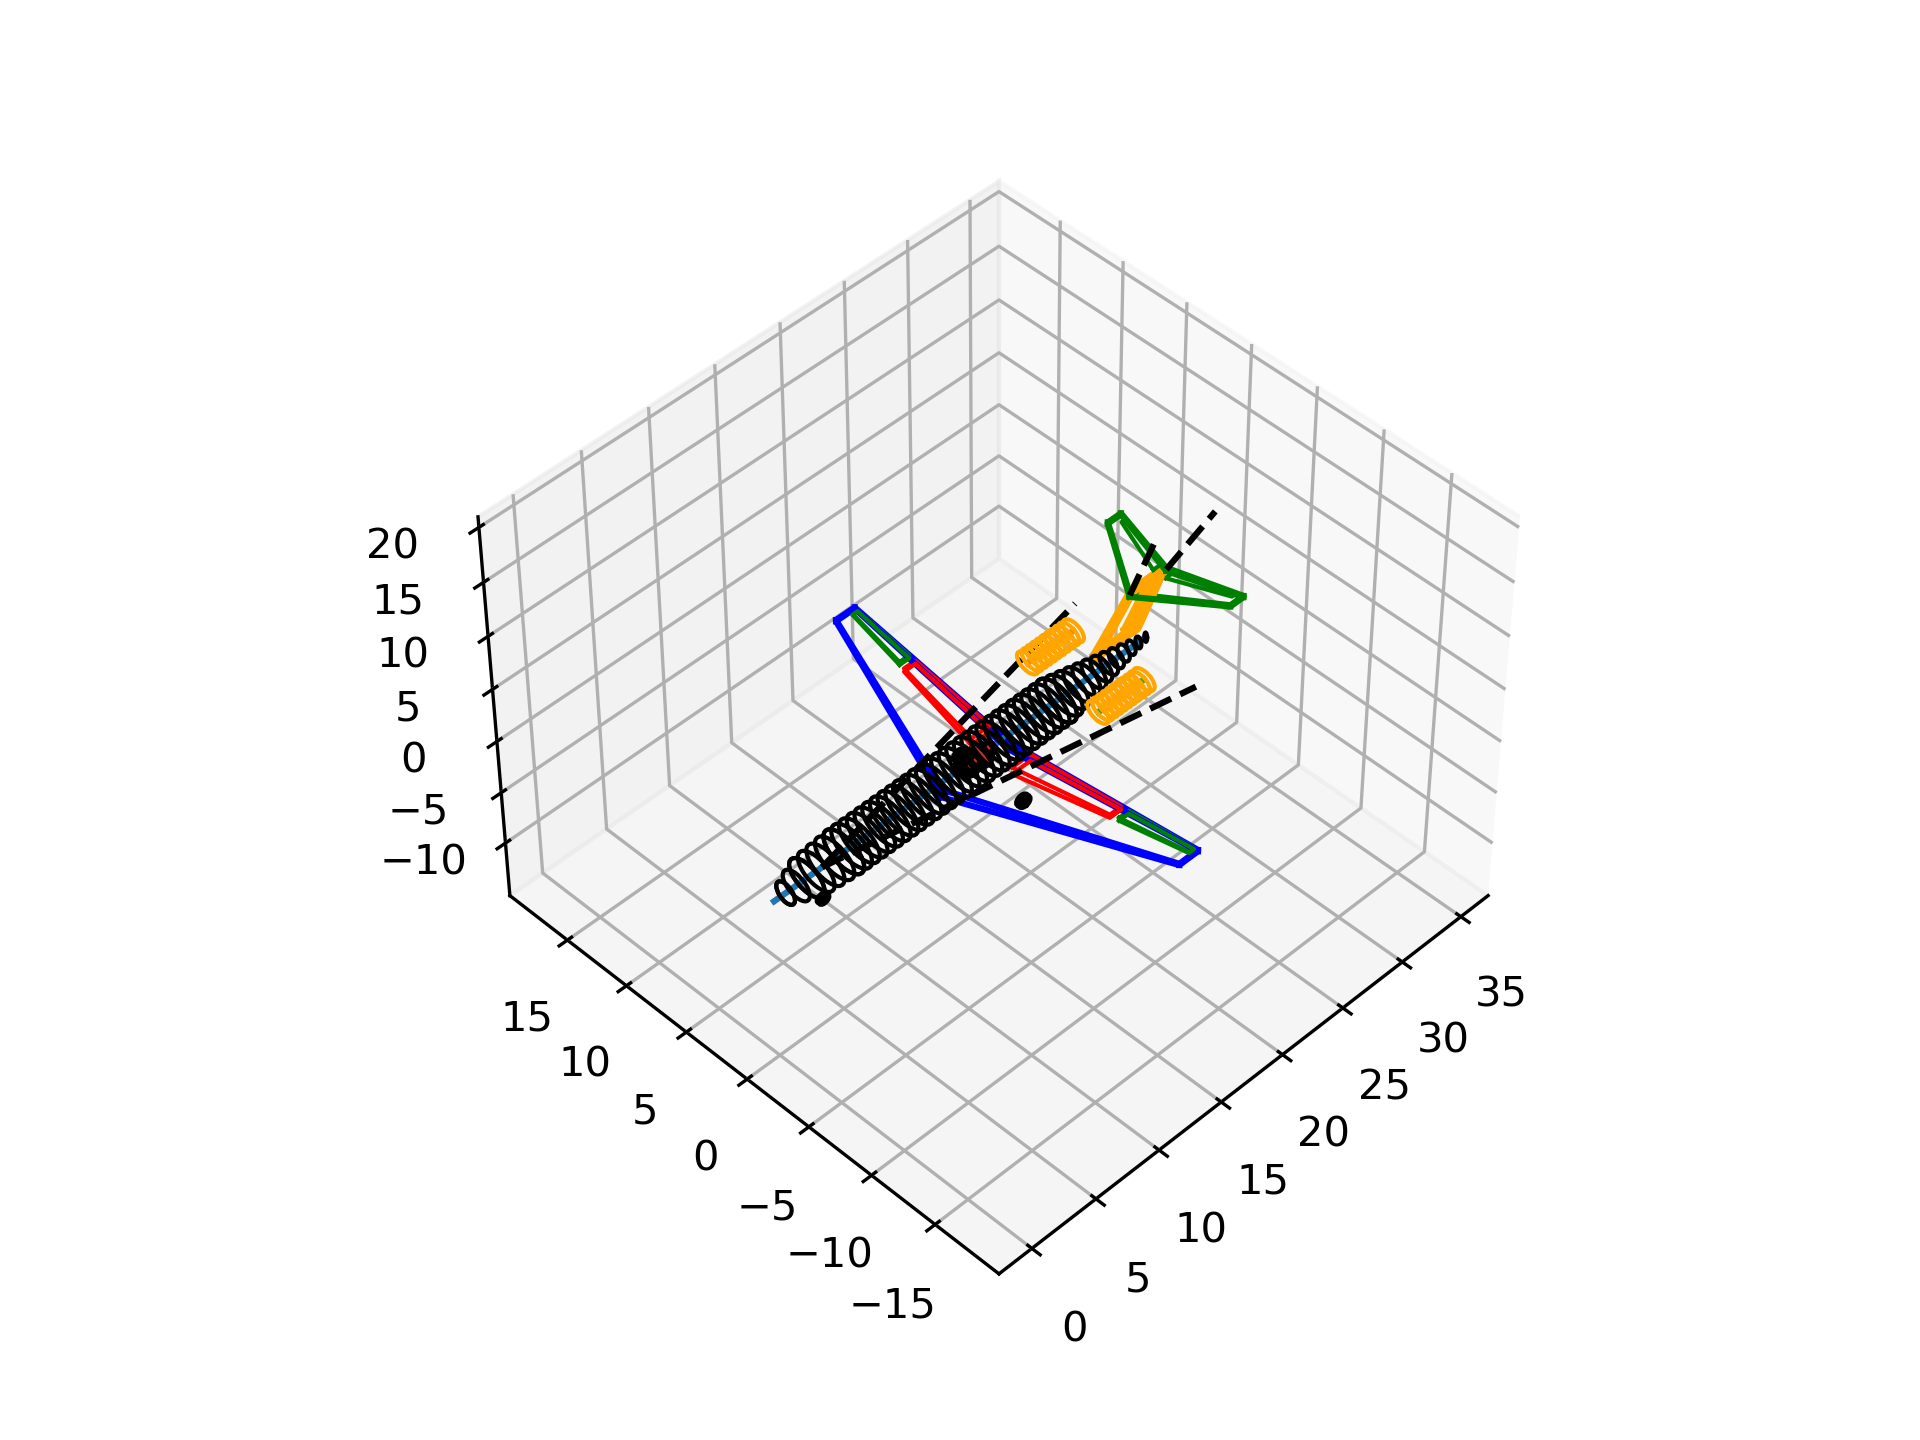
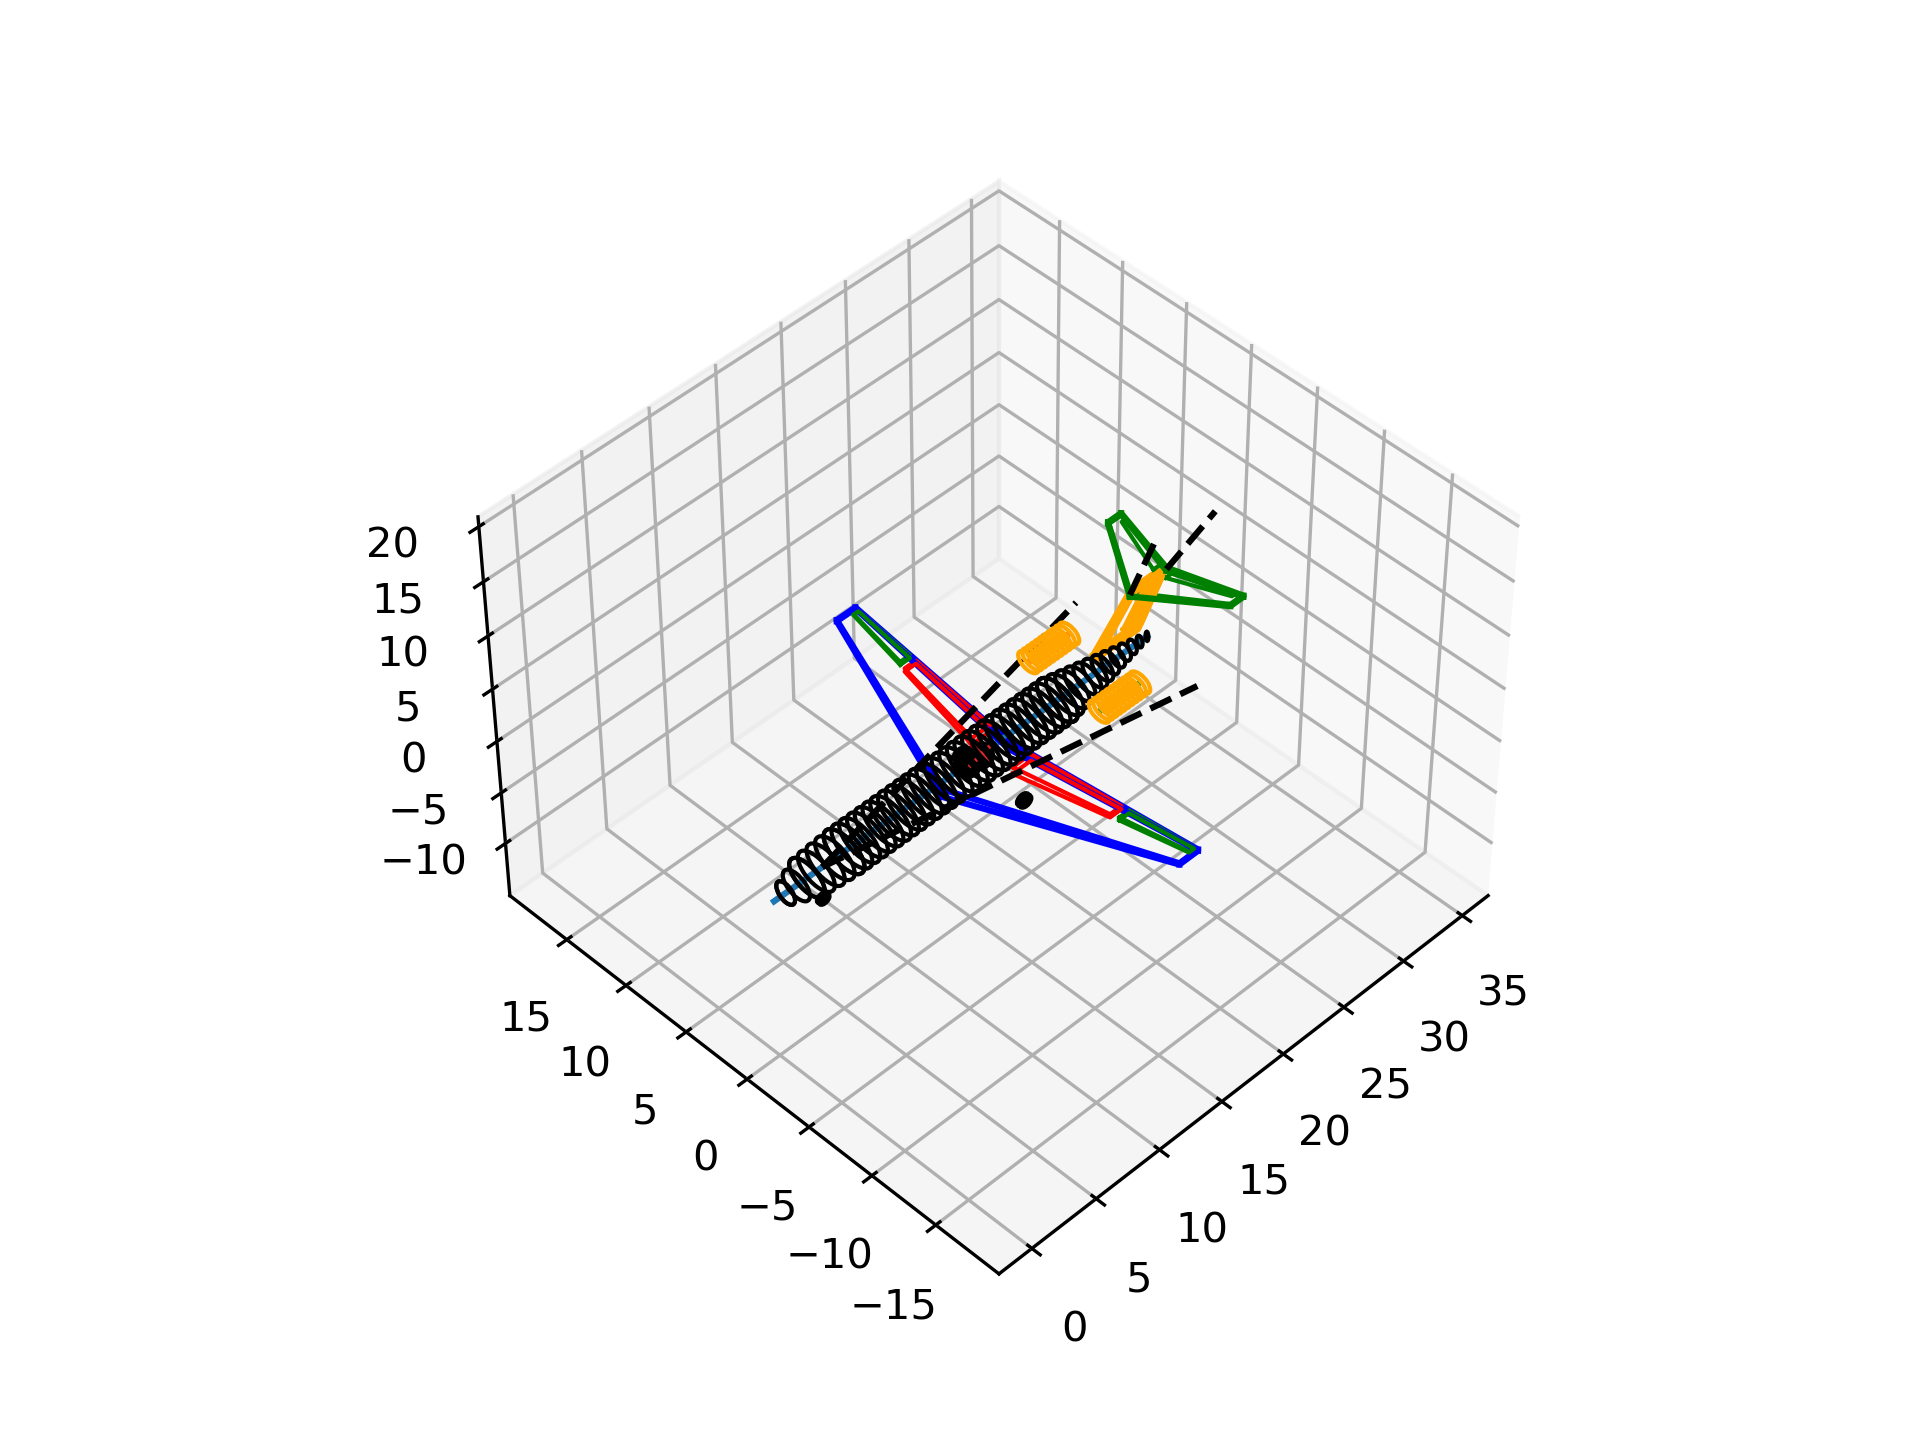
motor atualizado (CF34-8C5) | range 4550

diff --git a/designTool.py b/designTool.py
@@ -3370,7 +3370,7 @@ def standard_airplane(name="fokker100"):
         
         airplane = {
             "type": "transport",  # Can be 'transport', 'fighter', or 'general'
-            "S_w": 93,  # Wing area [m2]
+            "S_w": 92,  # Wing area [m2]
             "AR_w": 8.0,  # Wing aspect ratio
             "taper_w": 0.28,  # Wing taper ratio
             "sweep_w": 16.5 * np.pi / 180,  # Wing sweep [rad]
@@ -3402,14 +3402,15 @@ def standard_airplane(name="fokker100"):
             "x_n": 22.5,  # Longitudinal position of the nacelle frontal face [m]
             "y_n": 2.80,  # Lateral position of the nacelle centerline [m]
             "z_n": 0.85,  # Vertical position of the nacelle centerline [m]
-            "L_n": 3.70,  # Nacelle length [m]
-            "D_n": 1.70,  # Nacelle diameter [m]
+            "L_n": 3.27,  # Nacelle length [m]
+            "D_n": 1.64,  # Nacelle diameter [m]
             "n_engines": 2,  # Number of engines
             "n_engines_under_wing": 0,  # Number of engines installed under the wing
             "engine": {
                 "model": "Howe turbofan",  # Check engineTSFC function for options
-                "BPR": 5,  # Engine bypass ratio
-                "Cbase": 0.38/ 3600,
+                "BPR": 4.9,  # Engine bypass ratio
+                "Cbase": 0.39/ 3600,
+                "weight": 1120*gravity
             }, # Motor CF34-10E5
             "x_nlg": 3.64,  # Longitudinal position of the nose landing gear [m]
             "x_mlg": 16.82,  # Longitudinal position of the main landing gear [m]
@@ -3438,7 +3439,7 @@ def standard_airplane(name="fokker100"):
             "MLW_frac": 34400/37527,  # Max Landing Weight / Max Takeoff Weight NAO SEI
             "altitude_cruise": 10000,  # Cruise altitude [m]
             "Mach_cruise": 0.76,  # Cruise Mach number
-            "range_cruise": 4500 * 10**3,  # Cruise range [m]
+            "range_cruise": 4550 * 10**3,  # Cruise range [m]
             "loiter_time": 45 * 60,  # Loiter time [s]
             "altitude_altcruise": 4572,  # Alternative cruise altitude [m]
             "Mach_altcruise": 0.4,  # Alternative cruise Mach number

diff --git a/hw06.py b/hw06.py
@@ -17,12 +17,12 @@ airplane = dt.standard_airplane("F70_XerifeEdition")
 
 # dt.geometry(airplane)
 # Modify one parameter (if necessary)
-airplane["range_cruise"] =  4500 * 10**3
-airplane["xr_w"] = 12.82
-airplane["Lc_h"] = 3.7
-airplane["Lb_v"] = 0.42
-airplane["xcg_payload"] = 12.26
-airplane["x_mlg"] = airplane["xr_w"] + 4
+airplane["range_cruise"] =  4550 * 10**3
+# airplane["xr_w"] = 12.82
+# airplane["Lc_h"] = 3.7
+# airplane["Lb_v"] = 0.42
+# airplane["xcg_payload"] = 12.26
+# airplane["x_mlg"] = airplane["xr_w"] + 4
 
 # Execute the geometry function from the designTools module (dt)
 airplane = dt.analyze(
